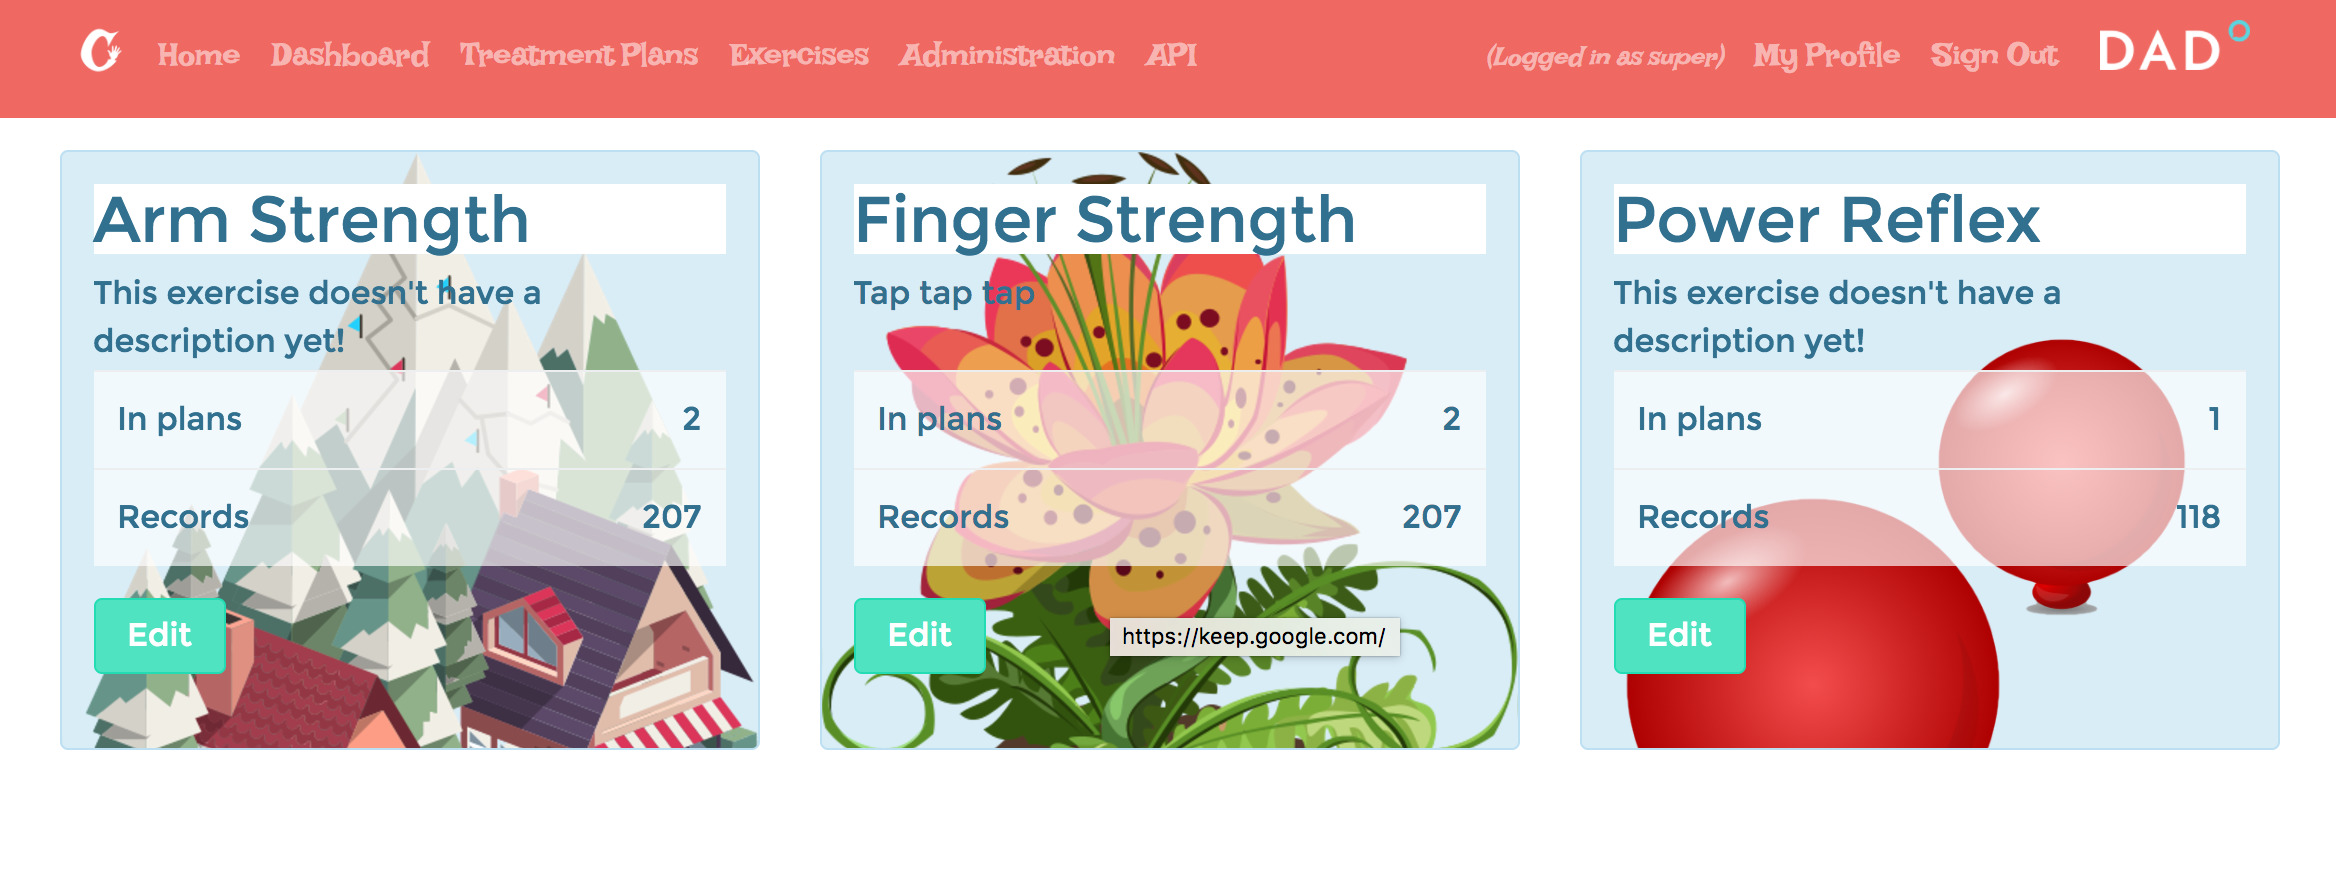
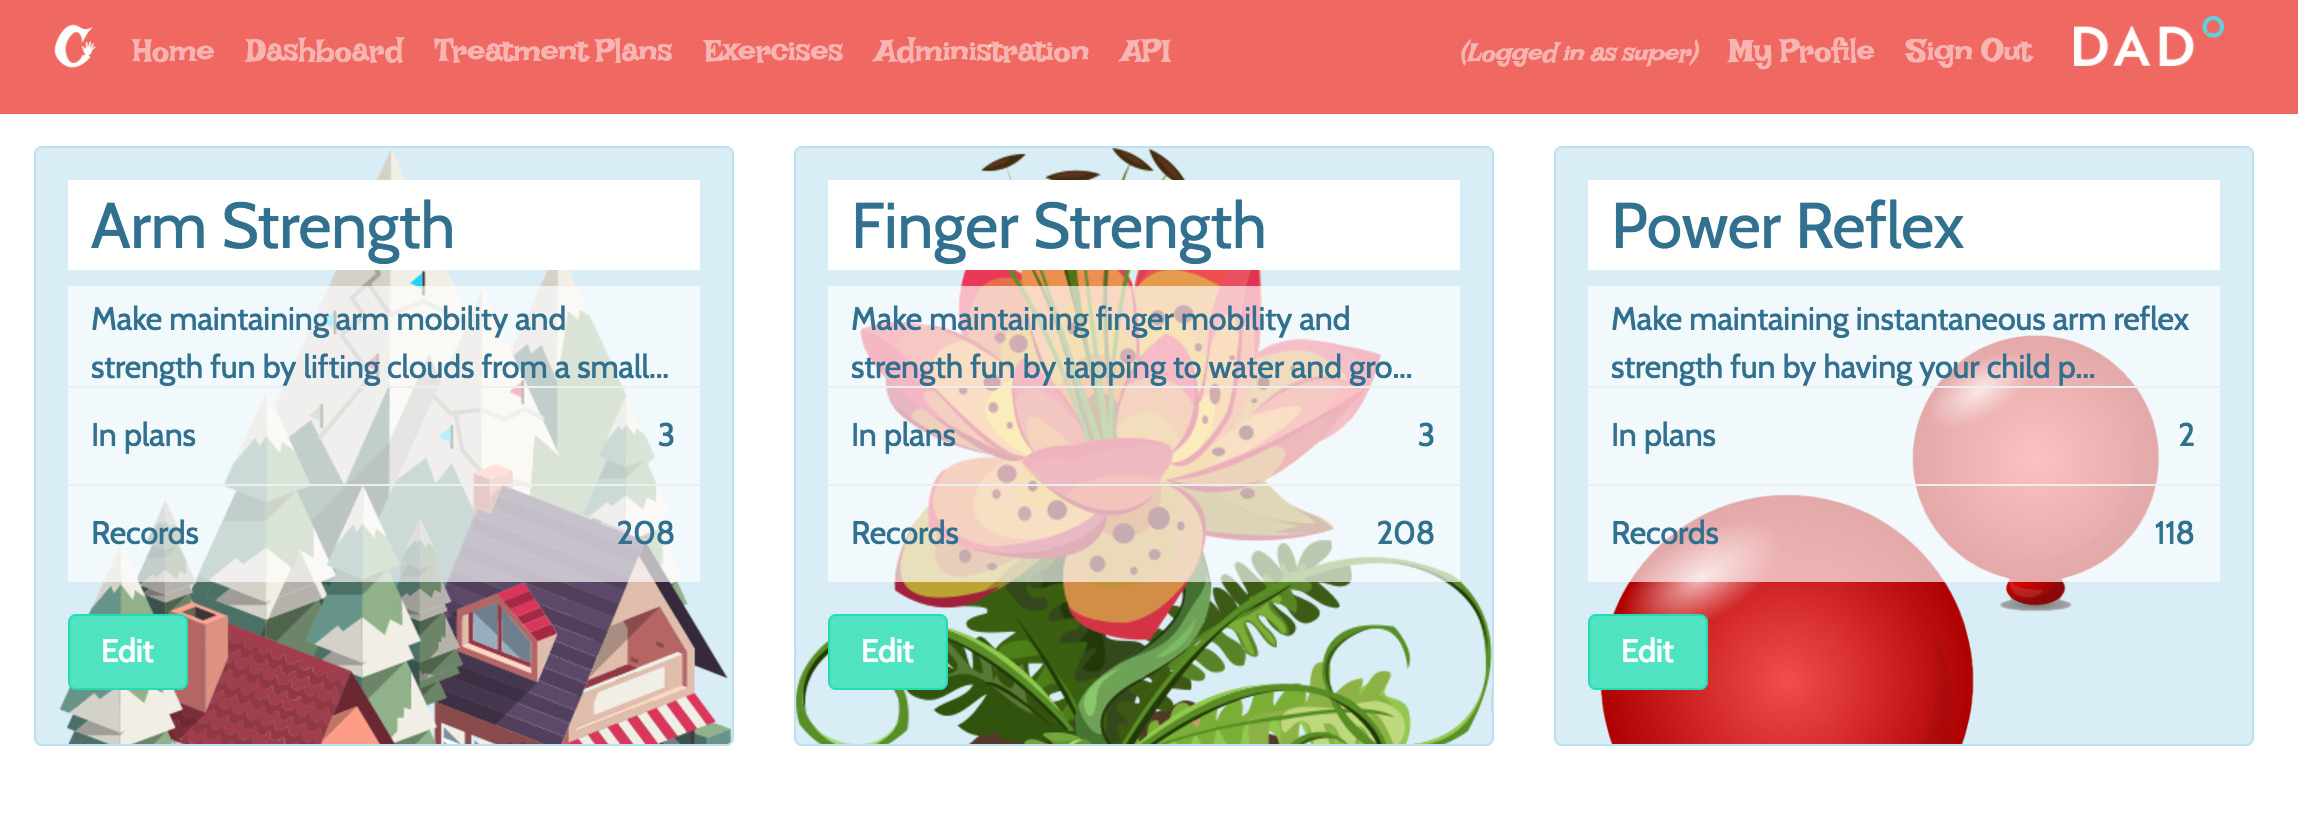
Update exercise screenshot

diff --git a/convalesense/static/css/project.css b/convalesense/static/css/project.css
@@ -100,9 +100,11 @@ a.btn-info {
   height: 300px;
   overflow: scroll; }
   .exercise-box h2 {
-    background-color: white; }
-  .exercise-box table.table {
+    background-color: white;
+    padding: 5px 12px; }
+  .exercise-box table.table, .exercise-box .description {
     background-color: rgba(255, 255, 255, 0.66); }
   .exercise-box .description {
     height: 50px;
+    padding: 5px 12px;
     overflow: scroll; }

diff --git a/convalesense/templates/exercise/exercise_list.html b/convalesense/templates/exercise/exercise_list.html
@@ -12,7 +12,7 @@
         <div class="description">
           <p>
             {% if exercise.description %}
-              {{ exercise.description|truncatechars:50 }}
+              {{ exercise.description|truncatechars:80 }}
             {% else %}
             This exercise doesn't have a description yet!
             {% endif %}

diff --git a/convalesense/static/sass/project.scss b/convalesense/static/sass/project.scss
@@ -176,14 +176,16 @@ a.btn-info {
 
   h2 {
     background-color: white;
+    padding: 5px 12px;
   }
 
-  table.table {
+  table.table, .description {
     background-color: rgba(255, 255, 255, 0.66);
   }
 
   .description {
     height: 50px;
+    padding: 5px 12px;
     overflow: scroll;
   }
 }

diff --git a/README.md b/README.md
@@ -20,14 +20,14 @@ Key components:
 
 ## Screenshots
 
-![](https://raw.githubusercontent.com/DADco/convalesense-web/master/docs/home.png.jpg?raw=true)
+![](https://raw.githubusercontent.com/DADco/convalesense-web/master/docs/home.png.jpg?raw=true&1)
 
-![](https://raw.githubusercontent.com/DADco/convalesense-web/master/docs/exercises.png.jpg?raw=true)
+![](https://raw.githubusercontent.com/DADco/convalesense-web/master/docs/exercises.png.jpg?raw=true&1)
 
-![](https://raw.githubusercontent.com/DADco/convalesense-web/master/docs/report.png.jpg?raw=true)
+![](https://raw.githubusercontent.com/DADco/convalesense-web/master/docs/report.png.jpg?raw=true&1)
 
-![](https://raw.githubusercontent.com/DADco/convalesense-web/master/docs/treatments.png.jpg?raw=true)
+![](https://raw.githubusercontent.com/DADco/convalesense-web/master/docs/treatments.png.jpg?raw=true&1)
 
-![](https://raw.githubusercontent.com/DADco/convalesense-web/master/docs/admin.png.jpg?raw=true)
+![](https://raw.githubusercontent.com/DADco/convalesense-web/master/docs/admin.png.jpg?raw=true&1)
 
-![](https://raw.githubusercontent.com/DADco/convalesense-web/master/docs/api.png.jpg?raw=true)
+![](https://raw.githubusercontent.com/DADco/convalesense-web/master/docs/api.png.jpg?raw=true&1)
